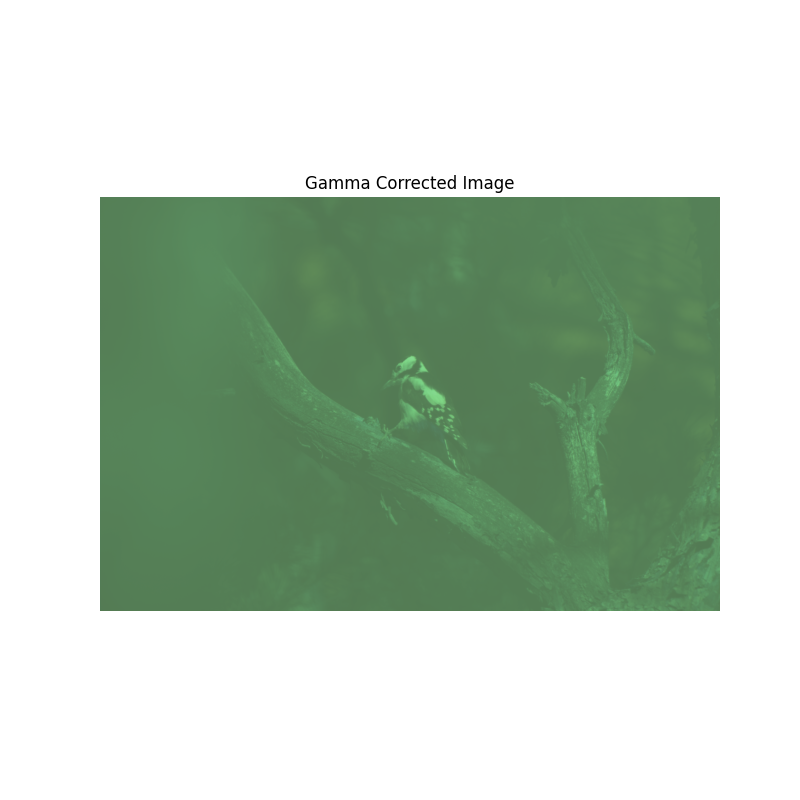
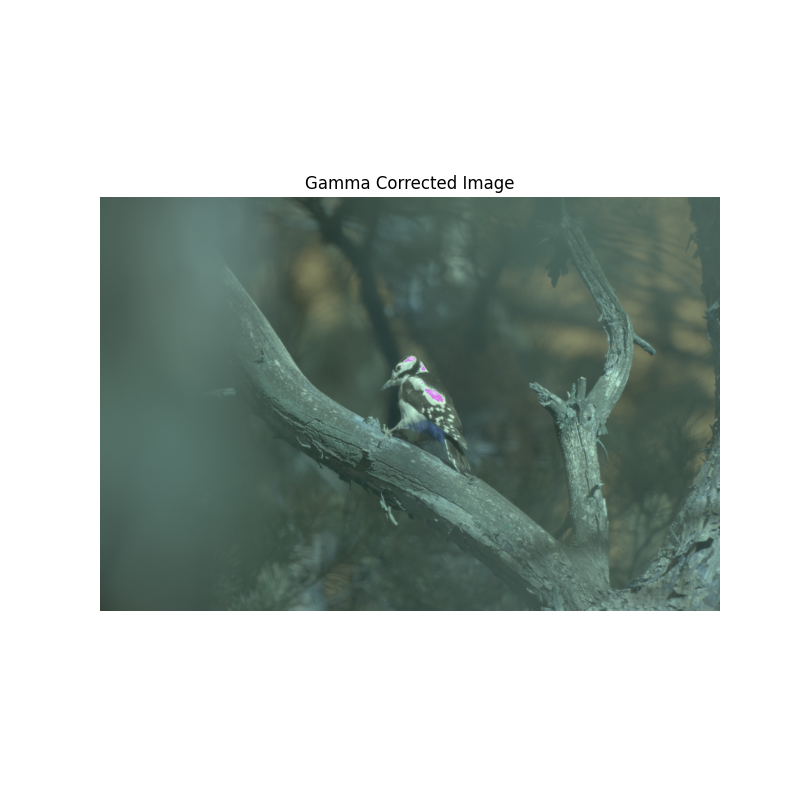
changed output somehow

Changed region(s): [[0.125, 0.2188, 0.9062, 0.7812], [0.125, 0.2188, 0.1875, 0.5]]

diff --git a/CV-projectEx2/testing.py b/CV-projectEx2/testing.py
@@ -42,16 +42,13 @@ def demosaic(raw_img):
     blue_mask = np.zeros_like(padded_img)
 
     # Create Bayer masks for RGGB pattern
-    for i in range(height):   # `i` represents the row index
-        for j in range(width):  # `j` represents the column index
-            if i % 2 == 0 and j % 2 == 1:
-                # Blue channel position in RGGB pattern
+    for i in range(height):
+        for j in range(width):
+            if i % 2 == 0 and j % 2 == 0:  # Top-left (Red)
                 red_mask[i, j] = 1
-            elif i % 2 == 1 and j % 2 == 0:
-                # Red channel position in RGGB pattern
+            elif i % 2 == 1 and j % 2 == 1:  # Bottom-right (Blue)
                 blue_mask[i, j] = 1
-            else:
-                # Green channel position in RGGB pattern
+            else:  # Green
                 green_mask[i, j] = 1
 
     # Separate channels
@@ -96,19 +93,14 @@ def normalize_0_to_1(rgb_img):
     
     return normalized_img
     
-    
 def gamma_correction(rgb_img, gamma = 0.3):
     #Gamma Correction
     #applying gamma correction
-    a = np.percentile(rgb_img, 0.01)
-    b = np.percentile(rgb_img, 99.99)
-    normalized_data = (rgb_img - a) / (b - a)
-    normalized_data[normalized_data < 0] = 0
-    normalized_data[normalized_data > 1] = 1
-    gamma = 0.3
-    normalized_gamma_corrected = normalized_data ** gamma
+    img = normalize_0_to_1(rgb_img)
+    normalized_gamma_corrected = img**gamma
     
     return normalized_gamma_corrected
+    
 
 def avg_pixel_channel(rgb_image):
     avg_red = np.mean(rgb_image[:,:,0])
@@ -174,42 +166,43 @@ def hdr(scaled_exposure, threshold=0.8):
 
     return hdr_image
 
-# def hdr_combination(raw_images, exposure_times):
-#     """
-#     Combine multiple images to produce HDR raw data
-#     """
-#     # Ensure images and exposure times are numpy arrays
-#     raw_images = np.array(raw_images)
-#     exposure_times = np.array(exposure_times)
-    
-#     # Weight function: give more weight to middle-range pixel values
-#     def weight_function(z):
-#         return 1.0 - np.abs(z - 0.5) * 2.0
-    
-#     # Initialize HDR image as zero
-#     hdr_image = np.zeros_like(raw_images[0], dtype=np.float64)
-    
-#     # Combine images with their respective weights
-#     for img, exposure in zip(raw_images, exposure_times):
-#         # Convert raw image to float
-#         img_float = img.astype(np.float64)
-#         # Compute pixel-wise weights
-#         weights = weight_function(img_float / np.max(img_float))
-#         # Accumulate weighted image data
-#         hdr_image += weights * img_float / exposure
-    
-#     return hdr_image
 
-def tone_map_log(hdr_image):
-    # Compute the maximum intensity in the HDR image
-    I_max = np.max(hdr_image)
+def hdr_combination(raw_images, exposure_times):
+    """
+    Combine multiple images to produce HDR raw data
+    """
+    # Ensure images and exposure times are numpy arrays
+    raw_images = np.array(raw_images)
+    exposure_times = np.array(exposure_times)
     
-    # Apply logarithmic tone mapping
-    tone_mapped = np.log(1 + hdr_image) / np.log(1 + I_max)
+    # Weight function: give more weight to middle-range pixel values
+    def weight_function(z):
+        return 1.0 - np.abs(z - 0.5) * 2.0
     
-    # Scale to [0, 255] and convert to uint8
-    tone_mapped = (tone_mapped * 255).astype(np.uint8)
-    return tone_mapped
+    # Initialize HDR image as zero
+    hdr_image = np.zeros_like(raw_images[0], dtype=np.float64)
+    
+    # Combine images with their respective weights
+    for img, exposure in zip(raw_images, exposure_times):
+        # Convert raw image to float
+        img_float = img.astype(np.float64)
+        # Compute pixel-wise weights
+        weights = weight_function(img_float / np.max(img_float))
+        # Accumulate weighted image data
+        hdr_image += weights * img_float / exposure
+    
+    return hdr_image
+
+# def tone_map_log(hdr_image):
+#     # Compute the maximum intensity in the HDR image
+#     I_max = np.max(hdr_image)
+    
+#     # Apply logarithmic tone mapping
+#     tone_mapped = np.log(1 + hdr_image) / np.log(1 + I_max)
+    
+#     # Scale to [0, 255] and convert to uint8
+#     tone_mapped = (tone_mapped * 255).astype(np.uint8)
+#     return tone_mapped
 
 
 def visualize(plots_output_path,filename,rgb_image,idx): 
@@ -364,7 +357,7 @@ def main():
     # plt.close()
     
     path_6 = r"C:\Users\taimo\Desktop\computer-vision-project\CV-projectEx2\exercise_2_data\exercise_2_data\06"
-    filename_6 = [f"0{i}.CR3" for i in range(0,11)]  # Include 10.CR3
+    filename_6 = [f"0{i}.CR3" if i < 10 else f"{i}.CR3" for i in range(0, 11)]
     
     
     # Load raw images
@@ -373,21 +366,50 @@ def main():
     plots_output_path = r'C:\Users\taimo\Desktop\computer-vision-project\CV-projectEx2\exercise_2_data\exercise_2_data\plots'
 
     
-    # Exposure times: halving for each subsequent image
+    # Step 1: Calculate Exposure Times
+    print("Calculating exposure times...")
     t0 = 1
     exposure_times = [t0 * (1/2)**n for n in range(len(filename_6))]
-    
-        # Combine images and create HDR raw data
-    hdr_img = hdr_combination(raw_img_6, exposure_times)
+    print(f"Exposure times calculated: {exposure_times}")
 
-    # Demosaic HDR raw image first
+    # Step 2: Perform HDR Combination
+    print("Performing HDR combination of raw images...")
+    hdr_img = hdr_combination(raw_img_6, exposure_times)
+    print("HDR combination complete.")
+
+    # Step 3: Demosaic the HDR Raw Image
+    print("Demosaicing the HDR raw image...")
+    # hdr_rgb_image = cv2.cvtColor(hdr_img.astype(np.uint16), cv2.COLOR_BAYER_RG2RGB)
     hdr_rgb_image = demosaic(hdr_img)
- 
-    # Plot HDR Processing Steps
+    print("Demosaicing complete.")
+
+    # Step 4: Logarithmic Tone Mapping
+    print("Applying logarithmic tone mapping...")
+    log_hdr = np.log(1 + hdr_rgb_image / np.max(hdr_rgb_image))  # Normalized for log mapping
+    print("Logarithmic tone mapping complete.")
+
+    # Step 5: Normalize HDR for Visualization
+    print("Normalizing HDR for visualization...")
+    normalized_hdr = (log_hdr / np.max(log_hdr) * 255).astype(np.uint8)
+    print("Normalization complete.")
+
+    # Step 6: Gamma Correction
+    print("Applying gamma correction...")
+    gamma_corr_img = gamma_correction(normalized_hdr / 255.0, gamma=0.3)
+    gamma_corr_img_uint8 = (gamma_corr_img * 255).astype(np.uint8)  # Convert back to 8-bit
+    print("Gamma correction complete.")
+
+    # Step 7: White Balance
+    print("Applying white balance...")
+    white_balanced_img = white_balance(gamma_corr_img)
+    print("White balance applied.")
+
+    # Step 8: Plotting HDR Processing Steps
+    print("Plotting HDR processing steps...")
     fig, axes = plt.subplots(2, 3, figsize=(15, 10))
 
-    # HDR Raw Image (first image before processing)
-    axes[0, 0].imshow(hdr_img)
+    # HDR Raw Image (Before Processing)
+    axes[0, 0].imshow(hdr_img, cmap='gray')
     axes[0, 0].set_title('HDR Raw Image')
     axes[0, 0].axis('off')
 
@@ -396,33 +418,33 @@ def main():
     axes[0, 1].set_title('Demosaiced HDR RGB')
     axes[0, 1].axis('off')
 
-    # Log HDR Image
-    log_hdr = np.log(1 + hdr_rgb_image)
+    # Log Tone Mapped
     axes[0, 2].imshow((log_hdr / np.max(log_hdr) * 255).astype(np.uint8))
     axes[0, 2].set_title('Log Tone Mapped')
     axes[0, 2].axis('off')
 
     # Normalized HDR
-    normalized_hdr = (log_hdr / np.max(log_hdr) * 255).astype(np.uint8)
-    axes[1, 0].imshow(normalized_hdr)
+    axes[1, 0].imshow(normalized_hdr, cmap='gray')
     axes[1, 0].set_title('Normalized HDR')
     axes[1, 0].axis('off')
 
-    # Gamma Correction
-    gamma_corr_img = gamma_correction(normalized_hdr/255.0, gamma=0.3)
-    axes[1, 1].imshow((gamma_corr_img * 255).astype(np.uint8))
+    # Gamma Corrected
+    axes[1, 1].imshow(gamma_corr_img_uint8)
     axes[1, 1].set_title('Gamma Corrected')
     axes[1, 1].axis('off')
 
-    # White Balance
-    white_balanced_img = white_balance(gamma_corr_img)
+    # White Balanced
     axes[1, 2].imshow(white_balanced_img)
     axes[1, 2].set_title('White Balanced')
     axes[1, 2].axis('off')
 
+    # Save the figure
     plt.tight_layout()
-    plt.savefig(os.path.join(plots_output_path, 'hdr_processing_steps.png'))
+    output_file = os.path.join(plots_output_path, 'hdr_processing_steps.png')
+    plt.savefig(output_file)
+    print(f"Plot saved to {output_file}")
     plt.close()
+
 
 if __name__ == "__main__":
     main()
